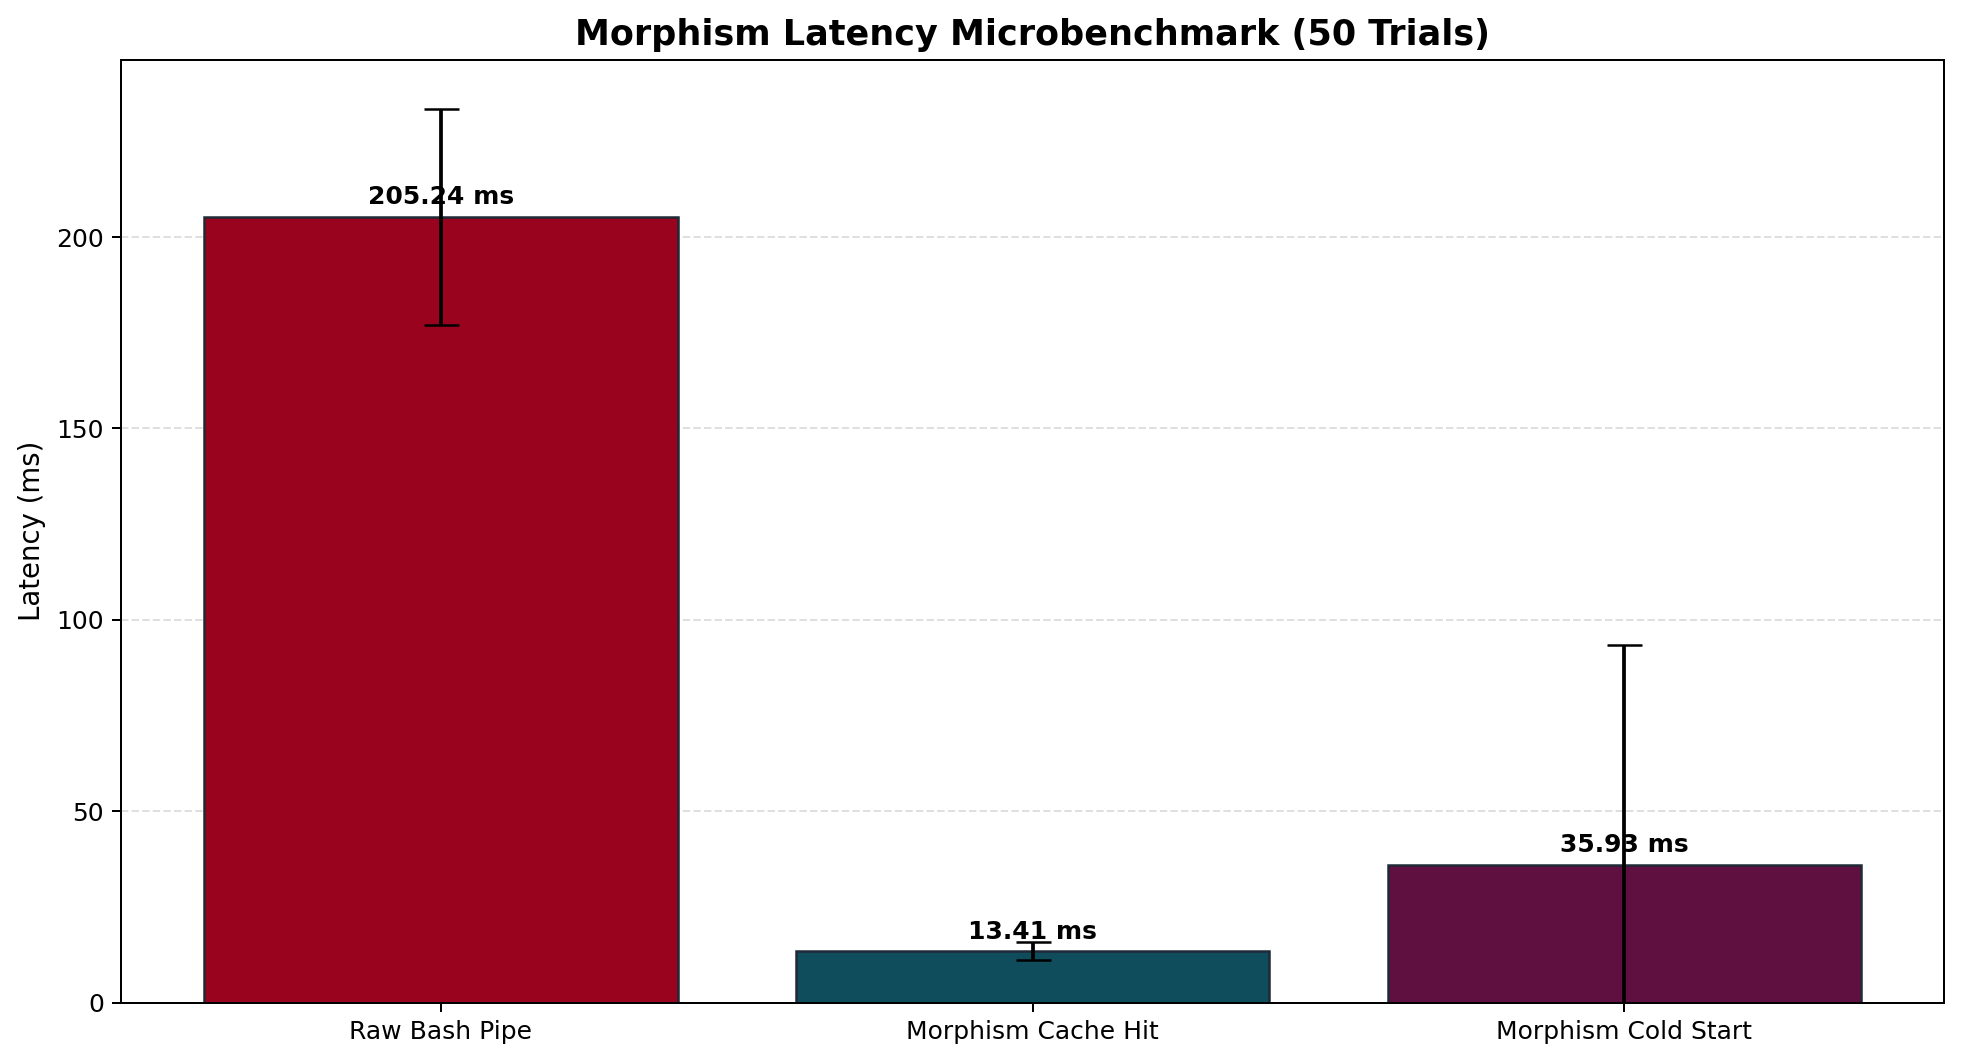
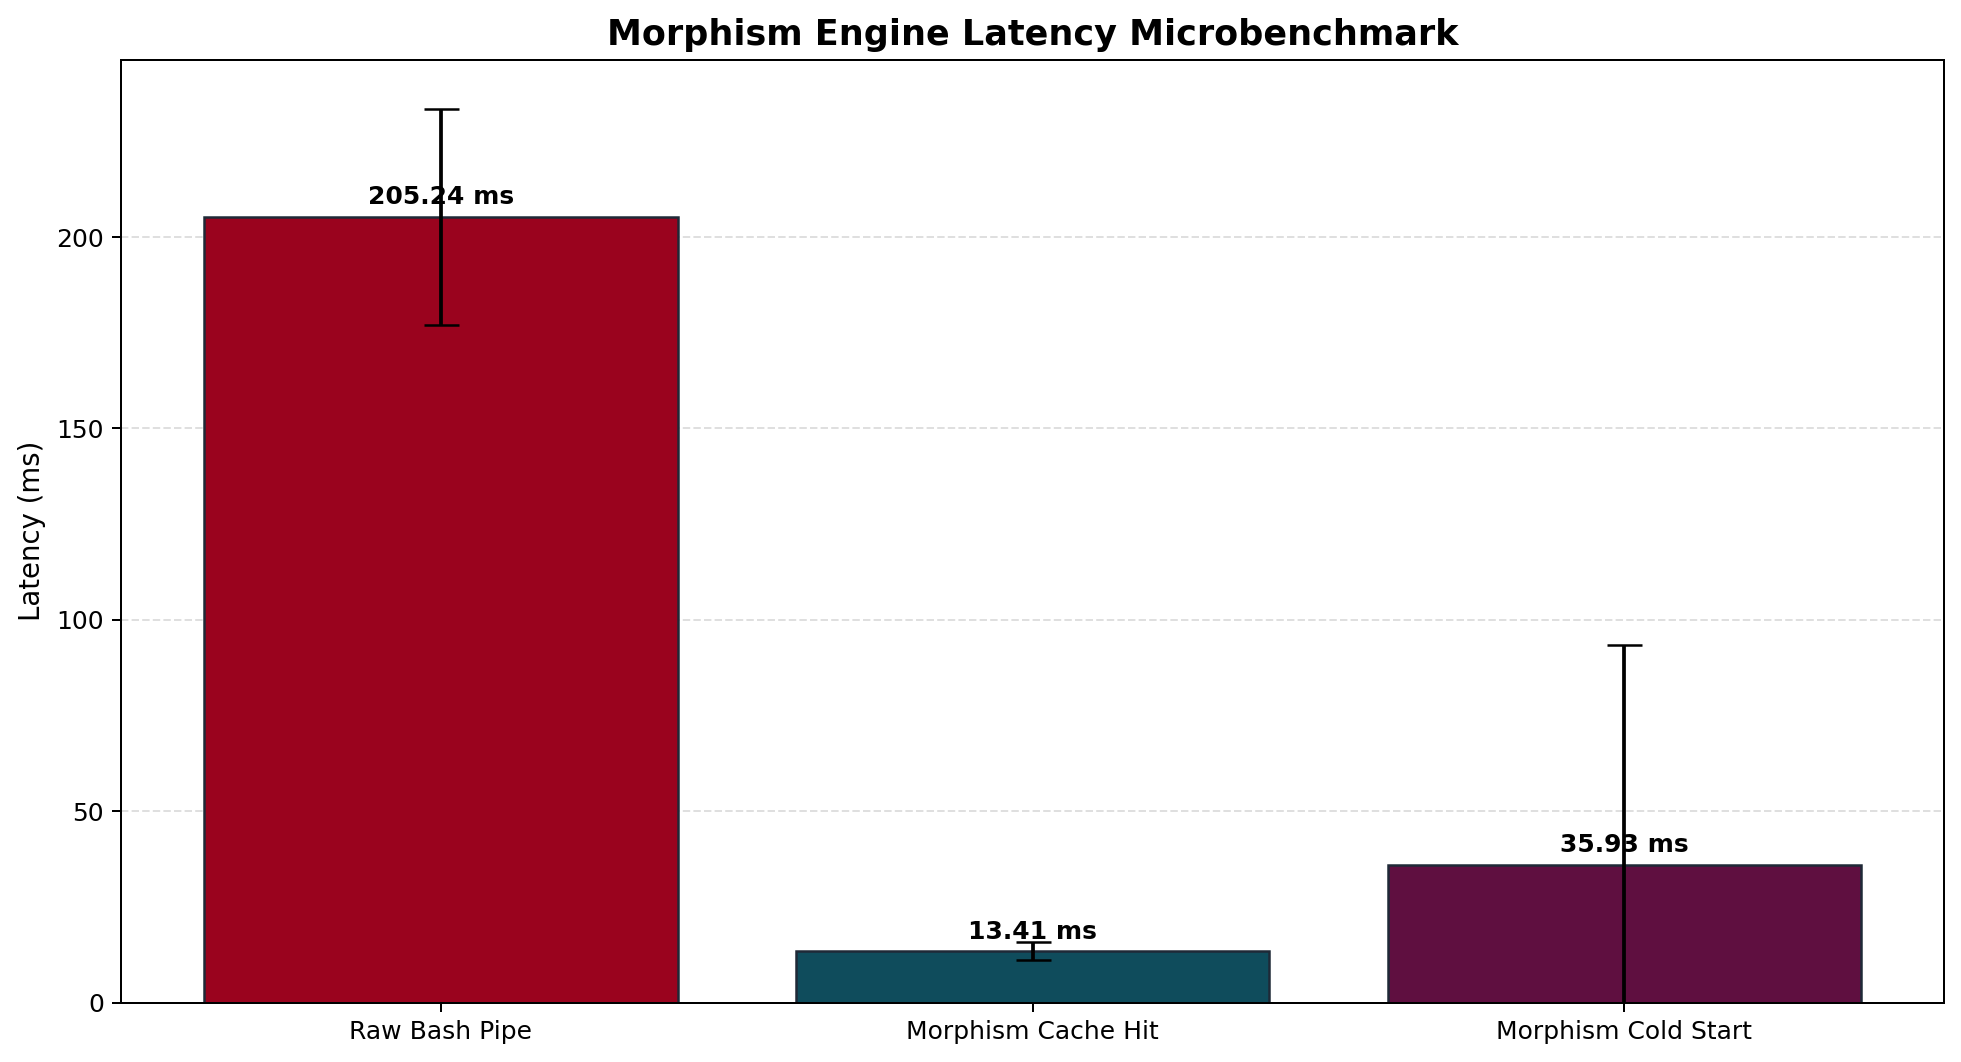
docs(readme): add visual overview and update benchmark chart title

Changed region(s): [[0.28, 0.0, 0.7466, 0.0621]]

diff --git a/scripts/render_benchmark_plots.py b/scripts/render_benchmark_plots.py
@@ -51,7 +51,7 @@ def _plot_latency(latency_json: dict, output_path: Path) -> None:
     ax.set_xticks(x)
     ax.set_xticklabels(labels, rotation=0, fontsize=10)
     ax.set_ylabel("Latency (ms)", fontsize=11)
-    ax.set_title("Morphism Latency Microbenchmark (50 Trials)", fontsize=14, fontweight="bold")
+    ax.set_title("Morphism Engine Latency Microbenchmark", fontsize=14, fontweight="bold")
     ax.grid(axis="y", linestyle="--", alpha=0.4)
     ax.set_axisbelow(True)
     ax.set_ylim(0, max(means) * 1.2)

diff --git a/README.md b/README.md
@@ -25,6 +25,7 @@
 - [Features](#features)
 - [Installation](#installation)
 - [Quick Start](#quick-start)
+- [Visual Overview](#visual-overview)
 - [How It Works (Architecture)](#how-it-works-architecture)
 - [Architecture](#architecture)
 - [Benchmarking](#benchmarking)
@@ -52,6 +53,27 @@ It exists to make pipeline composition verifiable, inspectable, and resilient. I
 - LLM synthesis is used as a bounded generation engine, not as a trust boundary.
 - Verified transforms are cached and reused, reducing repeated synthesis cost.
 - Interactive REPL and Textual TUI expose internals (DAG, telemetry, node state) while running.
+
+---
+
+## Visual Overview
+
+Architecture snapshot:
+
+![Morphism Architecture Overview](docs/assets/architecture_overview.svg)
+
+Performance and robustness snapshots:
+
+<p align="center">
+  <img src="docs/assets/benchmarks/latency_microbenchmark_50trials.png" alt="Latency Benchmark" width="48%" />
+  <img src="docs/assets/benchmarks/dirty_data_benchmark_titanic.png" alt="Dirty Data Benchmark" width="48%" />
+</p>
+
+What these visuals show quickly:
+
+- Self-healing flow: detect mismatch -> synthesize bridge -> sandbox + verify -> cache -> execute.
+- Latency profile: cache-hit execution is much faster than first-run synthesis/proof path in the included baseline run.
+- Dirty data behavior: Morphism stays close to ground truth while the naive baseline silently drifts.
 
 ---
 
